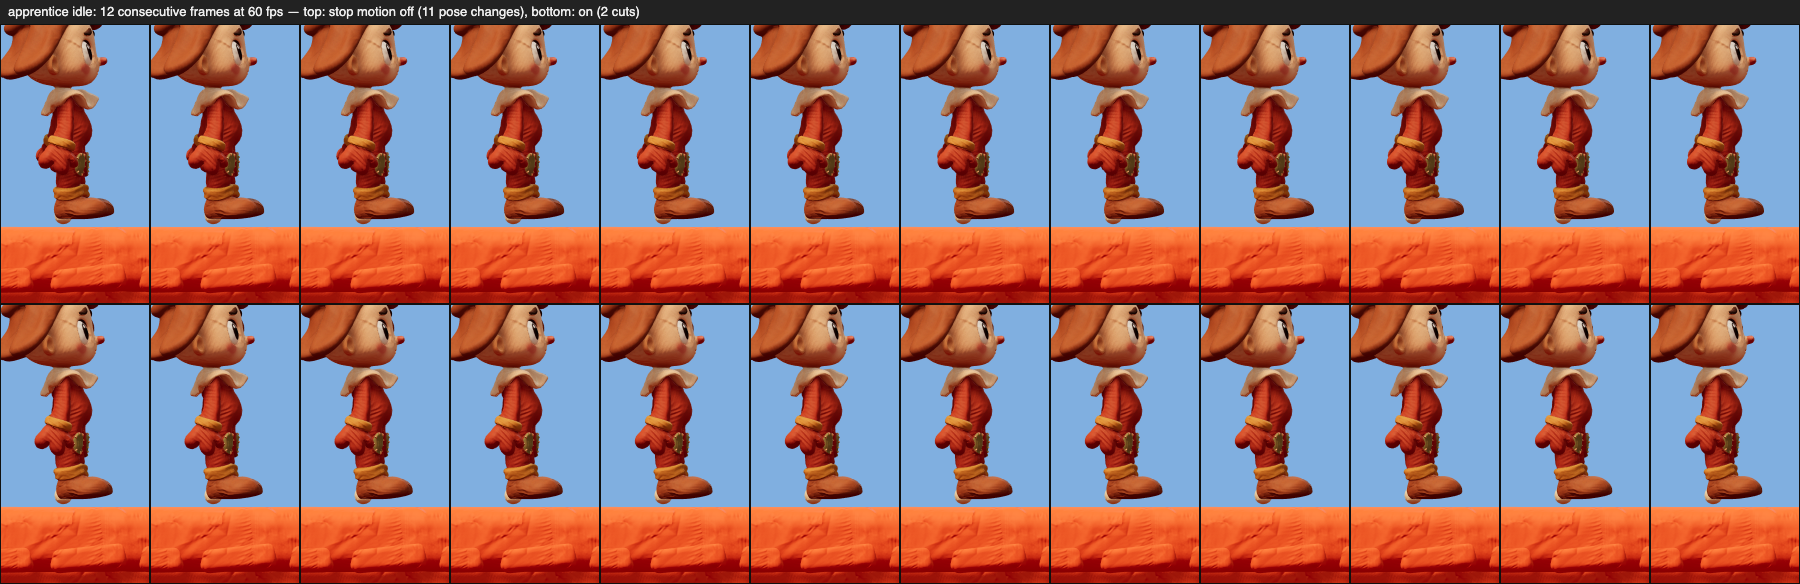
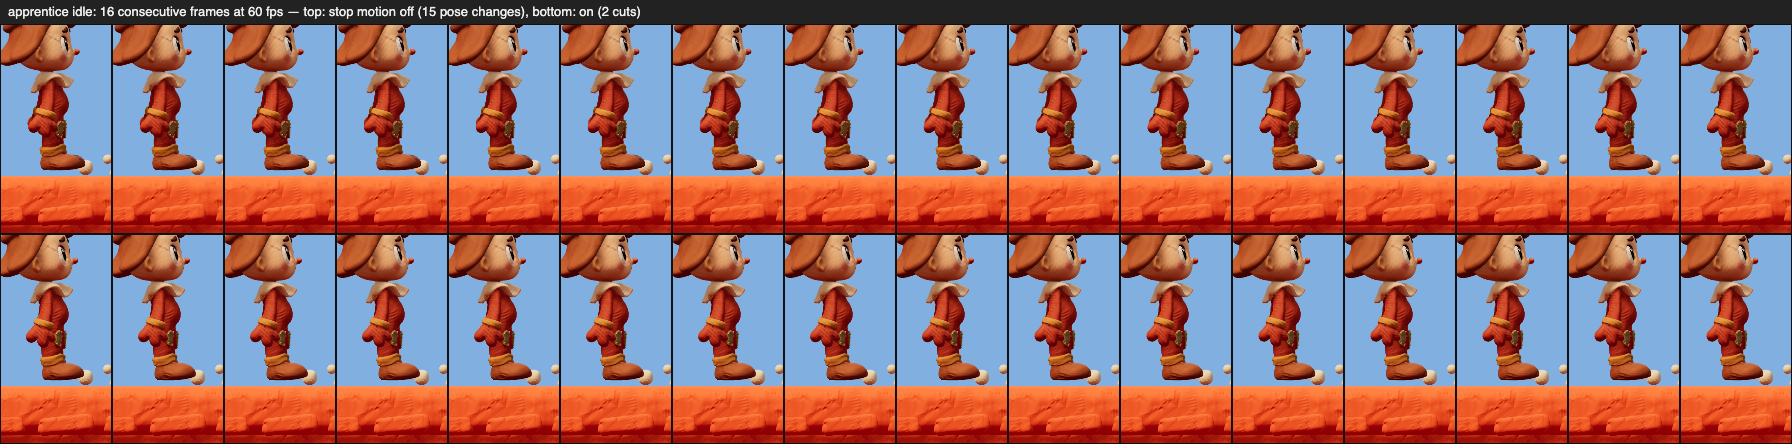
Shoot on threes, and put every creature on the clock
Eight poses a second instead of twelve: seven frames held at sixty, the
eighth spent. The spitter, drifter, spore puff and the dream's hatworm,
blinker and drip now take their step from the shared clock like the claylings
and bats, and every creature boils its relief on each exposure, seeded by
material so puppets sharing one agree and different puppets differ. A pose
that reads the simulation directly — the drifter's roll, the spitter's
wind-up, the puff's leap — reads it as it stood at the last exposure through
heldSample, which refreshes every frame when the clock is off so a paused
frame is never mistaken for a hold. The contact sheets run sixteen frames and
add the chapter's first creature; the landing sheet lays one tile per exposure.

diff --git a/dist/stop-motion.js b/dist/stop-motion.js
@@ -1,10 +1,10 @@
-// Clay stop-motion is shot on twos: twelve poses a second, each held until the
-// next, with nothing in between. That hold is the whole tell — a puppet that
-// eases is a cartoon; one that cuts is clay. The simulation, the camera and
-// where every puppet stands stay smooth, because the game still has to read at
-// sixty; only the poses step, and every puppet on the set cuts to its next pose
-// on the same frame, as it would under one camera.
-export const STOP_MOTION_FPS=12;
+// Clay stop-motion is shot on threes here: eight poses a second, each held
+// until the next, with nothing in between. That hold is the whole tell — a
+// puppet that eases is a cartoon; one that cuts is clay. The simulation, the
+// camera and where every puppet stands stay smooth, because the game still has
+// to read at sixty; only the poses step, and every puppet on the set cuts to
+// its next pose on the same frame, as it would under one camera.
+export const STOP_MOTION_FPS=8;
 
 // One clock for the whole set, kept on the world. `on` mirrors the setting so a
 // view that cached the clock at creation follows a mid-game toggle; `step` is
@@ -13,7 +13,7 @@ export const STOP_MOTION_FPS=12;
 export const createPuppetClock=()=>({on:false,held:0,frame:0,step:0,stepped:false});
 
 // Advance the shared clock by this frame's dt. With the setting off the poses
-// take dt as they always did. With it on, nothing moves until a twelfth of a
+// take dt as they always did. With it on, nothing moves until an eighth of a
 // second has built up, then all of it is spent at once — the pose lands on the
 // real elapsed time, so a held puppet never falls behind the world.
 export function tickPuppets(w,dt){
@@ -28,20 +28,33 @@ export function tickPuppets(w,dt){
 // The time an animator advances its pose by this frame. Off the clock (or with
 // the setting off) it is the frame's dt, clamped the way every animator already
 // clamps it so a hitch cannot fling a pose; on the clock it is the exposure's
-// worth, which may be a little over the twelfth when frames landed unevenly.
+// worth, which may be a little over the eighth when frames landed unevenly.
 export function puppetStep(clock,dt){
   if(!clock?.on)return Math.min(dt,.05);
   return Math.min(clock.step,1/STOP_MOTION_FPS+.05);
+}
+
+// A pose that reads the simulation directly — a roll angle, a wind-up timer,
+// a leap's velocity — would glide through a hold while the bones stood still.
+// This is what such a pose should read this frame: with the clock on, fresh
+// from the simulation whenever the pose advances and otherwise what it read at
+// the last exposure; with it off, always the live value — a paused frame is
+// not a hold.
+export function heldSample(clock,view,step,read){
+  if(!clock?.on||step>0||!view.held)view.held=read();
+  return view.held;
 }
 
 // In clay animation the surface never quite holds still between exposures: the
 // animator's hands were on the puppet, and its fingerprints crawl a hair from
 // frame to frame. The relief reads through a live offset on each material, so
 // the boil is that offset moved by a fraction of a millimetre, freshly for each
-// exposure and deterministically from its number, and put back where the
-// authored offset left it once the setting is off.
+// exposure and deterministically from its number and the material's name (so
+// the puppets sharing a material agree, and different puppets differ), and put
+// back where the authored offset left it once the setting is off.
 export const BOIL=.006;
 const hash=(n,k)=>{const x=Math.sin(n*12.9898+k*78.233)*43758.5453;return x-Math.floor(x);};
+const seed=name=>{let h=0;for(const ch of name||'')h=(h*31+ch.charCodeAt(0))%1000;return h;};
 export function boilPuppet(root,clock){
   const on=!!clock?.on;
   // A puppet that was never boiled has nothing to put back: skip the walk.
@@ -54,7 +67,7 @@ export function boilPuppet(root,clock){
       const offset=m.userData.clay?.offset;if(!offset)continue;
       const base=m.userData.clayOffset||[0,0,0];
       if(!on){offset.fromArray(base);continue;}
-      const n=clock.frame;
+      const n=clock.frame+seed(m.name);
       offset.set(base[0]+(hash(n,1)-.5)*2*BOIL,base[1]+(hash(n,2)-.5)*2*BOIL,base[2]+(hash(n,3)-.5)*2*BOIL);
     }
   });

diff --git a/dist/spore-puff.js b/dist/spore-puff.js
@@ -4,6 +4,7 @@ import {loadModel,retainModel,clayMaterials} from './model-assets.js';
 import {clayModel,clayMaterial} from './clay.js';
 import {SPORE} from './spore-rules.js';
 import {applyFlatten} from './clay-feel.js';
+import {puppetStep,heldSample,boilPuppet} from './stop-motion.js';
 export async function loadSpores(w,onProgress){
   if(w.sporeAsset){onProgress?.(1);return;}
   if(!w.sporeLoading)w.sporeLoading=loadModel('spore-puff.glb',onProgress).then(g=>prepareSporeAsset(w,g)).catch(e=>{w.sporeLoading=null;throw e;});
@@ -24,7 +25,7 @@ export function createSporeView(w,e){
   const feet=['Bone_016','Bone_019','Bone_022','Bone_025'].map(name=>{const bone=model.getObjectByName(name);return {bone,rest:bone.quaternion.clone()};});
   const cloud=new THREE.Group();cloud.name='Clay spore puff';root.add(cloud);
   const motes=Array.from({length:w.reducedMotion?5:11},(_,i)=>{const m=w.ball(.1,.1,.1,'spore',cloud);m.castShadow=false;return m;});
-  const view={kind:'spore',root,pose,model,feet,cloud,motes,loaded:true,id:e.id,turn:e.dir*.8,clock:0,deathTime:0,squashNode:pose,reducedMotion:!!w.reducedMotion};
+  const view={kind:'spore',root,pose,model,feet,cloud,motes,loaded:true,id:e.id,turn:e.dir*.8,clock:0,deathTime:0,squashNode:pose,reducedMotion:!!w.reducedMotion,puppet:w.puppetClock};
   animateSpore(view,e,0,'editing');return view;
 }
 // One cloud for both moments a puff lets go of its spores: thrown forward at
@@ -49,7 +50,7 @@ function poseCloud(v,age,forward){
   }
 }
 export function animateSpore(v,e,dt,status){
-  const step=status==='playing'?Math.min(dt,.05):0;v.clock+=step;v.root.position.set(e.x,e.y,.3);
+  const step=status==='playing'?puppetStep(v.puppet,dt):0;v.clock+=step;v.root.position.set(e.x,e.y,.3);
   if(!e.alive){
     v.deathTime+=step;
     // Only the body is pressed flat — straight down whatever wiggle or leap it
@@ -62,22 +63,26 @@ export function animateSpore(v,e,dt,status){
     return;
   }
   v.root.visible=true;v.root.scale.setScalar(1);v.pose.visible=true;v.deathTime=0;
-  const state=e.aiState||'idle',wiggle=state==='wiggle',crouch=state==='crouch',jump=state==='leap',puff=state==='puff';
-  const t=e.stateTime||0,wave=wiggle?Math.sin(t*35):0;
-  v.turn+=(e.dir*.95-v.turn)*(1-Math.exp(-step*12));v.pose.rotation.set(0,v.turn,wiggle?wave*.105:jump?-e.dir*.16:0);
+  // Under stop motion the body reads the creature as it was at the last
+  // exposure; where it is, its life and the cloud it left are read live.
+  const s=heldSample(v.puppet,v,step,()=>({...e}));
+  const state=s.aiState||'idle',wiggle=state==='wiggle',crouch=state==='crouch',jump=state==='leap',puff=state==='puff';
+  const t=s.stateTime||0,wave=wiggle?Math.sin(t*35):0;
+  v.turn+=(s.dir*.95-v.turn)*(1-Math.exp(-step*12));v.pose.rotation.set(0,v.turn,wiggle?wave*.105:jump?-s.dir*.16:0);
   let sy=1,sx=1;
   if(wiggle){sy=.93+Math.sin(t*27)*.055;sx=1.04-Math.sin(t*27)*.04;}
   else if(puff){sy=1.13-t*.8;sx=.95+t*.5;}
   else if(crouch){sy=.86-.18*Math.min(1,t/SPORE.crouchTime);sx=1.12;}
-  else if(jump){sy=e.leapVY>0?1.1:.96;sx=e.leapVY>0?.92:1.035;}
+  else if(jump){sy=s.leapVY>0?1.1:.96;sx=s.leapVY>0?.92:1.035;}
   else if(state==='recover'){const squash=Math.exp(-t*9)*.22;sy=1-squash;sx=1+squash*.65;}
   else {sy=1+Math.sin(v.clock*3)*.025;sx=1-Math.sin(v.clock*3)*.012;}
   v.pose.scale.set(sx,sy,sx);
   for(let i=0;i<v.feet.length;i++){
     const f=v.feet[i];f.bone.quaternion.copy(f.rest);
-    const angle=wiggle?Math.sin(t*35+i*Math.PI)*.09:jump?(i<2?-.2:.24):Math.sin(v.clock*6+i*Math.PI)*Math.min(.075,Math.abs(e.vx||0)*.1);
+    const angle=wiggle?Math.sin(t*35+i*Math.PI)*.09:jump?(i<2?-.2:.24):Math.sin(v.clock*6+i*Math.PI)*Math.min(.075,Math.abs(s.vx||0)*.1);
     f.bone.rotateX(angle);
   }
+  boilPuppet(v.root,v.puppet);
   const age=e.puffAge??10;v.cloud.visible=age<PUFF.life&&status!=='editing';
   if(v.cloud.visible){
     // Fixed world origin keeps the cloud behind when the enemy lunges.

diff --git a/dist/spitter.js b/dist/spitter.js
@@ -3,6 +3,7 @@ import {SPITTER} from './spitter-rules.js';
 import {applyFlatten} from './clay-feel.js';
 import {disposeBranch} from './streaming.js';
 import {spitterModel} from './spitter-asset.js';
+import {puppetStep,heldSample,boilPuppet} from './stop-motion.js';
 
 const pitchAxis=new THREE.Vector3(1,0,0),swayAxis=new THREE.Vector3(0,0,1),rotation=new THREE.Quaternion();
 const smooth=t=>{t=Math.max(0,Math.min(1,t));return t*t*(3-2*t);};
@@ -16,16 +17,19 @@ export function createSpitterView(w,e){
   const view={kind:'spitter',loaded:true,root,body,character,model,clip,tracks,bones,walkPhase:0,
     head:model.getObjectByName('head'),tail:model.getObjectByName('tail1'),
     ground:w.spitterMotion.ground,baseY:model.position.y,walkWeight:0,lastX:e.x,time:0,
-    deathTime:0,reducedMotion:!!w.reducedMotion};
+    deathTime:0,reducedMotion:!!w.reducedMotion,clock:w.puppetClock};
   animateSpitter(view,e,0,'playing');return view;
 }
 export function animateSpitter(v,e,dt,status){
-  const step=status==='playing'?Math.min(dt,.05):0;
+  const step=status==='playing'?puppetStep(v.clock,dt):0;
   v.root.position.set(e.x,e.y,.12);
   if(!e.alive){v.deathTime+=step;applyFlatten(v.root,v.deathTime,{reducedMotion:v.reducedMotion});return;}
-  v.deathTime=0;v.root.visible=true;v.root.scale.setScalar(1);v.body.rotation.y=e.dir*SPITTER.turn;
+  // Under stop motion the pose reads the creature as it was at the last
+  // exposure; where it stands, and whether it lives, are read live above.
+  const s=heldSample(v.clock,v,step,()=>({...e}));
+  v.deathTime=0;v.root.visible=true;v.root.scale.setScalar(1);v.body.rotation.y=s.dir*SPITTER.turn;
   const travel=Math.abs(e.x-v.lastX),speed=step>0&&travel<.4?travel/step:0;
-  if(step){v.lastX=e.x;v.time+=step;v.walkWeight+=((speed>.03&&['watch','patrol'].includes(e.aiState)?1:0)-v.walkWeight)*(1-Math.exp(-step*12));v.walkWeight=Math.min(1,v.walkWeight);}
+  if(step){v.lastX=e.x;v.time+=step;v.walkWeight+=((speed>.03&&['watch','patrol'].includes(s.aiState)?1:0)-v.walkWeight)*(1-Math.exp(-step*12));v.walkWeight=Math.min(1,v.walkWeight);}
   for(const rest of v.bones){rest.bone.position.copy(rest.position);rest.bone.quaternion.copy(rest.quaternion);rest.bone.scale.copy(rest.scale);}
   const weight=v.reducedMotion?0:v.walkWeight;
   if(step&&speed>.03)v.walkPhase=(v.walkPhase+step*Math.min(1.5,speed/.16))%v.clip.duration;
@@ -39,20 +43,21 @@ export function animateSpitter(v,e,dt,status){
   const phase=v.walkPhase/v.clip.duration*(v.ground.length-1),i=Math.min(v.ground.length-2,Math.floor(phase));
   const correction=THREE.MathUtils.lerp(v.ground[i],v.ground[i+1],phase-i);
   v.model.position.y=v.baseY+(v.reducedMotion?0:correction*v.walkWeight);
-  const charge=e.aiState==='charge'?smooth(e.stateTime/SPITTER.charge):0;
+  const charge=s.aiState==='charge'?smooth(s.stateTime/SPITTER.charge):0;
   // Continuous wind-up -> short impulse -> eased settle, on the same skeleton.
   // Feet and body pivot stay fixed; no whole-mesh wobble or pose swapping.
   let pose=charge;
-  if(e.aiState==='recover'){
-    const t=e.stateTime;
+  if(s.aiState==='recover'){
+    const t=s.stateTime;
     pose=t<.07?1-1.7*smooth(t/.07):t<.36?-.7*(1-smooth((t-.07)/.29)):0;
   }
   if(v.head){
-    const breath=v.reducedMotion||!['watch','patrol'].includes(e.aiState)?0:Math.sin(v.time*1.7+e.id*.61)*.009*(1-charge);
+    const breath=v.reducedMotion||!['watch','patrol'].includes(s.aiState)?0:Math.sin(v.time*1.7+e.id*.61)*.009*(1-charge);
     v.head.quaternion.multiply(rotation.setFromAxisAngle(pitchAxis,-pose*.1+breath));
     v.head.scale.multiplyScalar(1+Math.max(0,pose)*.045);
   }
   if(v.tail&&!v.reducedMotion)v.tail.quaternion.multiply(rotation.setFromAxisAngle(swayAxis,Math.sin(v.time*1.3+e.id)*.025*(1-charge)));
+  boilPuppet(v.root,v.clock);
 }
 export function syncShots(w,game){
   w.shotViews??=new Map();const ids=new Set();

diff --git a/dist/drifter.js b/dist/drifter.js
@@ -3,6 +3,7 @@ import {loadModel,retainModel,clayMaterials} from './model-assets.js';
 import {clayModel} from './clay.js';
 import {DRIFTER} from './drifter-rules.js';
 import {applyFlatten} from './clay-feel.js';
+import {puppetStep,heldSample,boilPuppet} from './stop-motion.js';
 
 export async function loadDrifters(w,onProgress){
   if(w.drifterAsset){onProgress?.(1);return;}
@@ -33,7 +34,7 @@ export function createDrifterView(w,e){
   const grains=Array.from({length:5},(_,i)=>{
     const m=w.ball(.052,.066,.048,i%2?'cream':'orangeLight',root);m.name='Drifting clay grain';m.castShadow=false;return m;
   });
-  const view={kind:'drifter',root,pose,grains,id:e.id,turn:0,trail:e.dir,loaded:false,deathTime:0,reducedMotion:!!w.reducedMotion};
+  const view={kind:'drifter',root,pose,grains,id:e.id,turn:0,trail:e.dir,loaded:false,deathTime:0,reducedMotion:!!w.reducedMotion,clock:w.puppetClock};
   if(w.drifterAsset)attachDrifter(w,view);animateDrifter(view,e,0,'editing');return view;
 }
 function attachDrifter(w,view){
@@ -43,7 +44,7 @@ function attachDrifter(w,view){
   view.model=model;view.support=support;view.loaded=true;
 }
 export function animateDrifter(view,e,dt,status){
-  const step=status==='playing'?Math.min(dt,.05):0,t=e.animationTime??e.phase??0;
+  const step=status==='playing'?puppetStep(view.clock,dt):0;
   view.root.position.set(e.x,e.y,.35);
   if(!e.alive){
     // Pressed flat about its centre like every other creature. The root is
@@ -63,10 +64,13 @@ export function animateDrifter(view,e,dt,status){
   view.deathTime=0;view.root.visible=true;view.root.scale.setScalar(1);
   for(const m of view.grains)m.visible=true;
   if(!view.loaded)return;
-  const direction=Math.abs(e.vx)>.08?Math.sign(e.vx):e.dir;
+  // Under stop motion the roll, the hover and the bump read the creature as it
+  // was at the last exposure; where it is, and whether it lives, are live above.
+  const s=heldSample(view.clock,view,step,()=>({...e})),t=s.animationTime??s.phase??0;
+  const direction=Math.abs(s.vx)>.08?Math.sign(s.vx):s.dir;
   view.turn+=(direction*.28-view.turn)*(1-Math.exp(-step*5.5));
   view.trail+=(direction-view.trail)*(1-Math.exp(-step*5.5));
-  const air=e.airBlend??1,angle=e.rollAngle||0,pulse=air*Math.sin(t*2.3)*.025,bump=air*Math.min(1,(e.bump||0)/.22);
+  const air=s.airBlend??1,angle=s.rollAngle||0,pulse=air*Math.sin(t*2.3)*.025,bump=air*Math.min(1,(s.bump||0)/.22);
   view.pose.rotation.set(air*Math.sin(t*1.5)*.035,air*(view.turn+Math.sin(t*.9)*.055),angle+air*(-view.turn*.22+Math.sin(t*1.9)*.055));
   view.pose.scale.set(1+pulse+bump*.11,1-pulse-bump*.14,1+pulse*.6+bump*.06);
   const u=((angle/(Math.PI*2)%1)+1)%1*view.support.length,i=Math.floor(u),f=u-i;
@@ -74,8 +78,9 @@ export function animateDrifter(view,e,dt,status){
   view.pose.position.y=(1-air)*(depth-DRIFTER.groundRadius);
   for(let i=0;i<view.grains.length;i++){
     const u=((t*.65+i/view.grains.length)%1+1)%1,m=view.grains[i];
-    m.position.set(-view.trail*(.55+u*(.65+Math.min(.3,Math.abs(e.windX||0)*.025))),air*(-.18+Math.sin(t*2+i*1.7)*.2)+(1-air)*(-.55+Math.sin(t*3+i)*.035)+u*.1,.02+Math.sin(i*2.1)*.24);
+    m.position.set(-view.trail*(.55+u*(.65+Math.min(.3,Math.abs(s.windX||0)*.025))),air*(-.18+Math.sin(t*2+i*1.7)*.2)+(1-air)*(-.55+Math.sin(t*3+i)*.035)+u*.1,.02+Math.sin(i*2.1)*.24);
     const size=Math.sin(u*Math.PI)*(.7+i*.07)*(.7+air*.3);
     m.rotation.set(t+i,t*.7+i,0);m.scale.set(.052*size,.066*size,.048*size);
   }
+  boilPuppet(view.root,view.clock);
 }

diff --git a/dist/dream-enemies.js b/dist/dream-enemies.js
@@ -1,6 +1,7 @@
 import * as THREE from './lib/three.module.js';
 import {applyFlatten} from './clay-feel.js';
 import {BLINKER,DRIP} from './dream-enemy-rules.js';
+import {puppetStep,heldSample,boilPuppet} from './stop-motion.js';
 
 // The Soft Dream's creatures, sculpted in code from the world's clay
 // primitives — no model to load. The blinker and the drip take the theme's
@@ -35,7 +36,7 @@ function hatwormMaterial(w,key,index=0){
 
 export function createDreamEnemyView(w,e){
   const root=new THREE.Group();root.name=`${NAMES[e.kind]||'Dream creature'} ${e.id}`;root.position.set(e.x,e.y,.35);w.levelRoot.add(root);
-  const view={kind:e.kind,root,id:e.id,loaded:true,deathTime:0,time:e.id*.37,turn:e.dir>0?0:Math.PI,face:e.face??e.dir??-1,grow:1,drip:null,parts:{},reducedMotion:!!w.reducedMotion};
+  const view={kind:e.kind,root,id:e.id,loaded:true,deathTime:0,time:e.id*.37,turn:e.dir>0?0:Math.PI,face:e.face??e.dir??-1,grow:1,drip:null,parts:{},reducedMotion:!!w.reducedMotion,clock:w.puppetClock};
   if(e.kind==='hatworm')buildHatworm(w,view);
   else if(e.kind==='blinker')buildBlinker(w,view);
   else if(e.kind==='drip')buildDrip(w,view);
@@ -133,7 +134,7 @@ function animateDrip(view,e,step){
 }
 
 export function animateDreamEnemy(view,e,dt,status){
-  const step=status==='playing'?Math.min(dt,.05):0;view.time+=step;
+  const step=status==='playing'?puppetStep(view.clock,dt):0;view.time+=step;
   const root=view.root;root.position.set(e.x,e.y,.35);
   if(!e.alive){
     // Pressed flat where it was hit, like every other creature; the shatter
@@ -148,8 +149,12 @@ export function animateDreamEnemy(view,e,dt,status){
     return pose;
   }
   view.deathTime=0;root.visible=true;root.scale.setScalar(1);
-  if(view.kind==='hatworm')animateHatworm(view,e,step);
-  else if(view.kind==='blinker')animateBlinker(view,e,step);
-  else if(view.kind==='drip')animateDrip(view,e,step);
+  // Under stop motion the pose reads the creature as it was at the last
+  // exposure; where it is, and whether it lives, are read live above.
+  const s=heldSample(view.clock,view,step,()=>({...e}));
+  if(view.kind==='hatworm')animateHatworm(view,s,step);
+  else if(view.kind==='blinker')animateBlinker(view,s,step);
+  else if(view.kind==='drip')animateDrip(view,s,step);
+  boilPuppet(root,view.clock);
   return null;
 }

diff --git a/dist/title-menu.js b/dist/title-menu.js
@@ -59,7 +59,7 @@ export function settingsMarkup(soundEnabled,fullscreenActive,{music=.55,effects=
     <div class="title-settings">
       <button class="title-setting" data-action="settings-sound" role="switch" aria-checked="${soundEnabled}" aria-label="Game sound">${icon(soundEnabled?'volume-2':'volume-x')}<span>Sound</span><strong>${soundEnabled?'On':'Off'}</strong></button>
       <button class="title-setting" data-action="settings-rumble" role="switch" aria-checked="${rumble}" aria-label="Vibration and controller rumble">${icon('move-vertical')}<span>Rumble</span><strong>${rumble?'On':'Off'}</strong></button>
-      <button class="title-setting" data-action="settings-stopmotion" role="switch" aria-checked="${stopMotion}" aria-label="Stop-motion animation, twelve poses a second">${icon('camera')}<span>Stop motion</span><strong>${stopMotion?'On':'Off'}</strong></button>
+      <button class="title-setting" data-action="settings-stopmotion" role="switch" aria-checked="${stopMotion}" aria-label="Stop-motion animation, eight poses a second">${icon('camera')}<span>Stop motion</span><strong>${stopMotion?'On':'Off'}</strong></button>
       <button class="title-setting" data-action="fullscreen" data-fullscreen="label" aria-pressed="${fullscreenActive}">${icon(fullscreenActive?'minimize':'expand')}<span>${fullscreenActive?'Exit fullscreen':'Fullscreen'}</span></button>
       <button class="title-setting" data-action="help">${icon('gamepad-2')}<span>How to play</span></button>
       <button class="title-setting" data-action="editor">${icon('pencil-ruler')}<span>Level editor</span></button>

diff --git a/dist/enemies.js b/dist/enemies.js
@@ -2,7 +2,7 @@ import * as THREE from './lib/three.module.js';
 import {clone} from './lib/SkeletonUtils.js';
 import {loadModel,loadData,retainModel,clayMaterials} from './model-assets.js';
 import {clayModel} from './clay.js';
-import {puppetStep} from './stop-motion.js';
+import {puppetStep,boilPuppet} from './stop-motion.js';
 import {createBatView,animateBat} from './bats.js';
 import {createSporeView,animateSpore} from './spore-puff.js';
 import {createDrifterView,animateDrifter} from './drifter.js';
@@ -64,7 +64,7 @@ export function animateEnemy(view,e,dt,status){
   if(e.alive){
     view.deathTime=0;view.root.visible=true;view.root.scale.setScalar(1);
     const angle=e.dir>0?0:Math.PI;view.turn+=(angle-view.turn)*(1-Math.exp(-22*step));view.root.rotation.y=view.turn;
-    view.action.setEffectiveTimeScale(e.speed/1.65);view.mixer.update(step);
+    view.action.setEffectiveTimeScale(e.speed/1.65);view.mixer.update(step);boilPuppet(view.root,view.clock);
   }else{
     // Pressed flat on the deck; clay-shatter.js breaks the disc from world.render.
     view.deathTime+=step;applyFlatten(view.root,view.deathTime,{reducedMotion:view.reducedMotion});

diff --git a/dist/bats.js b/dist/bats.js
@@ -2,7 +2,7 @@ import * as THREE from './lib/three.module.js';
 import {clone} from './lib/SkeletonUtils.js';
 import {loadModel,retainModel,clayMaterials} from './model-assets.js';
 import {clayModel} from './clay.js';
-import {puppetStep} from './stop-motion.js';
+import {puppetStep,boilPuppet} from './stop-motion.js';
 import {BAT} from './enemy-rules.js';
 import {createBatEcho,animateBatEcho,batLookVector} from './bat-echo.js';
 import {applyFlatten} from './clay-feel.js';
@@ -61,7 +61,7 @@ export function animateBat(view,e,dt,status){
     view.actions.Fly.setEffectiveTimeScale(state==='retreat'?1.35:1);
     view.actions.Swoop.setEffectiveTimeScale(diving?view.actions.Swoop.getClip().duration/(e.diveDuration||.5):1);
     animateBatEcho(view.echo,e,status);
-    view.mixer.update(step);
+    view.mixer.update(step);boilPuppet(view.root,view.clock);
     view.root.rotation.set(0,0,0);
     if(state==='retreat'||charging||diving){
       batLookVector(e,view.look);

diff --git a/dist/hero.js b/dist/hero.js
@@ -262,7 +262,7 @@ export function animateHero(w,game,dt){
     c.mixer.update(step);
     if(!paused)boilPuppet(c.asset,w.puppetClock);
     // A small foot-anchored response complements, rather than distorts, the rig.
-    // The spring is stiff enough that one Euler step of a twelfth of a second
+    // The spring is stiff enough that one Euler step of an eighth of a second
     // — a stop-motion exposure — rings it against its clamp for good, so it
     // is walked in the simulation's own ticks however long the frame held.
     for(let left=step;left>0;left-=SPRING_DT){

diff --git a/README.md b/README.md
@@ -30,7 +30,7 @@ Seven supplied models were about 95% texture, and are repacked with the same met
 
 **Gamepads and haptics are supported.** A standard-mapping controller steers with the left stick or d-pad, jumps on A/Y, stomps on B/X/RT/d-pad-down and pauses on Start; on the title, A or Start begins. Keyboard keeps priority, so a stick resting off centre can never fight a held key. Phone vibration and controller rumble fire from the same event bus the particles use, scaled by impact and rate-limited so a coin run cannot stack into one buzz — `dist/gamepad.js`, `dist/haptics.js`, covered by `tests/gamepad.mjs`. **Music and effects now have independent sliders**, on their own Web Audio buses, so the soundtrack can be silenced without losing the landing and pickup cues; music defaults below effects. Rumble has its own switch.
 
-**Stop motion is a switch in the same panel, off until chosen.** Clay animation is shot on twos — twelve poses a second, each held until the next — and that hold is what makes a puppet read as clay rather than cartoon. With the switch on, one clock on the world (`dist/stop-motion.js`) holds every puppet's animation time and spends it whole once a twelfth of a second has built up, so the hero, the claylings and the bats cut to their next pose on the same frame; the hero's turn, gait, crossfades, impact squash and lean all take that one step, so the whole figure holds and cuts together. The simulation, the camera and where each puppet stands stay smooth, because the game still has to read at sixty. On every exposure the hero's clay relief is nudged a hair through the offset its shader already reads, so its fingerprints crawl between frames the way a handled puppet's do; off, the offsets go back and every frame eases as before. The title's hero and the completion stage expose on the same clock. `tests/stop-motion.mjs` holds the clock to four frames held and the fifth spent, the hero's pose, blends and skin cutting together while its feet keep moving, and off being exactly what it was; `node scripts/review-stop-motion.cjs` lays twelve consecutive frames at sixty, off above on, into `docs/stop-motion/`, with two consecutive exposures close on the skin for the boil.
+**Stop motion is a switch in the same panel, off until chosen.** Clay animation is shot on threes here — eight poses a second, each held until the next — and that hold is what makes a puppet read as clay rather than cartoon. With the switch on, one clock on the world (`dist/stop-motion.js`) holds every puppet's animation time and spends it whole once an eighth of a second has built up, so the hero and every creature — claylings, bats, spitters, drifters, spore puffs and the dream's own — cut to their next pose on the same frame; the hero's turn, gait, crossfades, impact squash and lean all take that one step, so the whole figure holds and cuts together, and a creature whose pose reads the simulation directly (a drifter's roll, a spitter's wind-up, a puff's leap) reads it as it stood at the last exposure. The simulation, the camera and where each puppet stands stay smooth, because the game still has to read at sixty. On every exposure each puppet's clay relief is nudged a hair through the offset its shader already reads, so its fingerprints crawl between frames the way a handled puppet's do; off, the offsets go back and every frame eases as before. The impact squash spring is walked in simulation ticks however long the frame held — fed the whole eighth in one Euler step it rang against its clamp for ever. The title's hero and the completion stage expose on the same clock. `tests/stop-motion.mjs` holds the clock to seven frames held and the eighth spent, the hero's pose, blends and skin cutting together while its feet keep moving, a landing that settles, and off being exactly what it was; `node scripts/review-stop-motion.cjs` lays consecutive frames at sixty, off above on, into `docs/stop-motion/` for the hero and a clayling, with a landing sheet one tile per exposure and two consecutive exposures close on the skin for the boil.
 
 The page finally previews when it is shared: Open Graph and Twitter card tags, a 1200x630 card built from the shipped title key art and logo, favicons and an Apple touch icon cropped from the logo's own C, and a web app manifest so the game installs to a phone home screen. `scripts/prepare-brand.py` regenerates all of them from the title artwork. The production build keeps those five files unhashed beside `index.html`, because a manifest resolves its icons and its scope against its own URL.
 
